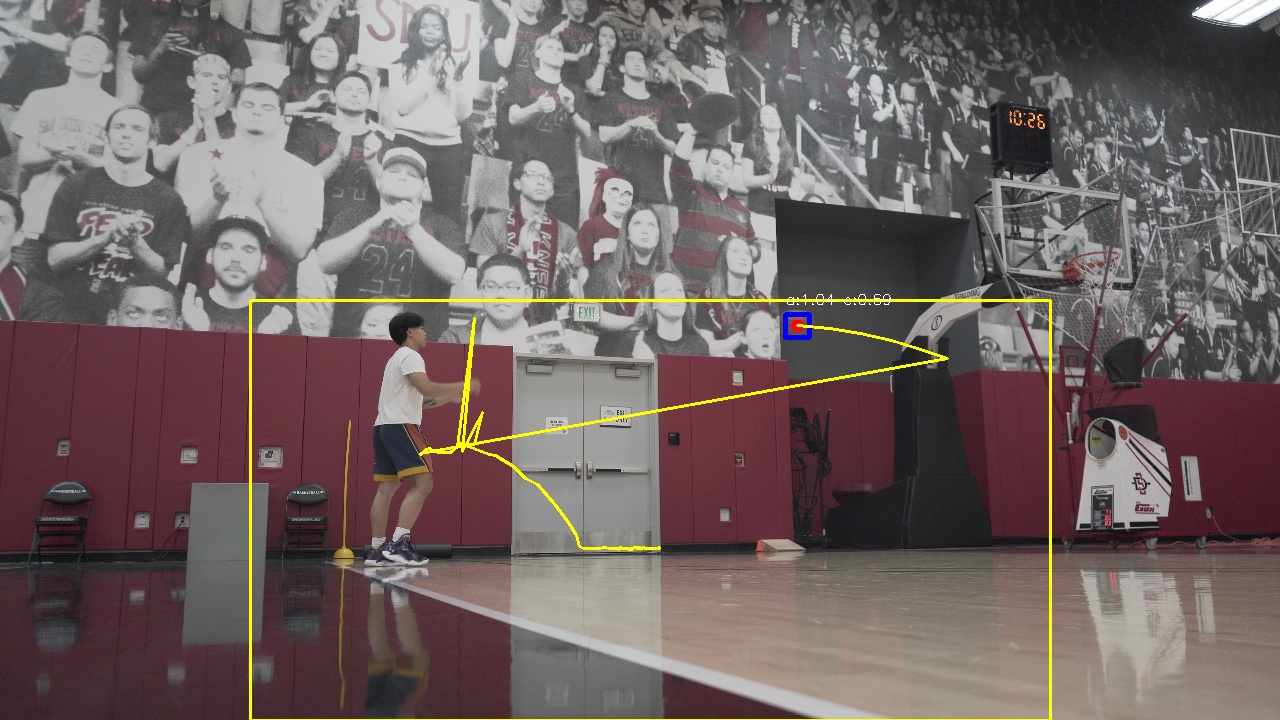
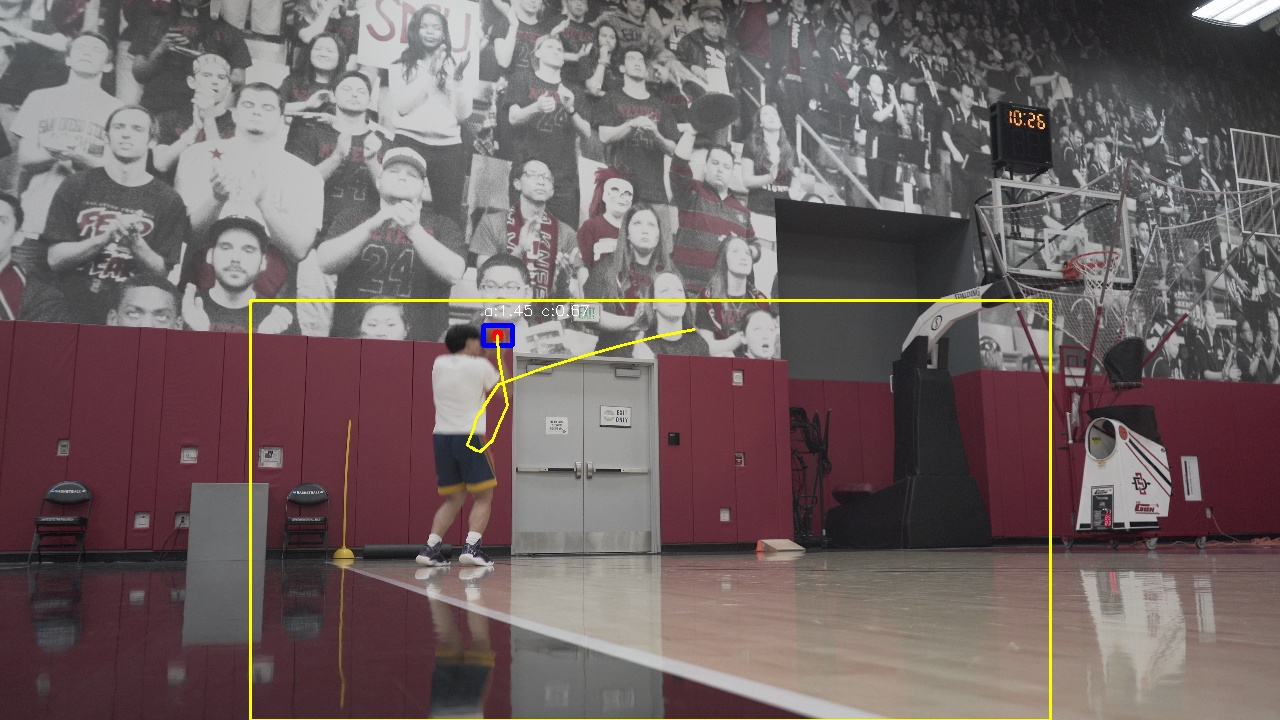
Updating ReadMe and ROADMAP

diff --git a/src/main.py b/src/main.py
@@ -76,6 +76,14 @@ def playVideoFrameFile():
 
     # Track the ball_path
     ball_path = []
+
+    # track jump distance between tracked balls
+    MAX_JUMP_DISTANCE = 120
+
+    # Track the missed consecutive frames
+    missed_frames = 0
+    MAX_MISSED_FRAMES = 3
+
     # 4. Repeatedly read the next frame
     while True:
         ret, frame = cap.read()
@@ -192,11 +200,15 @@ def playVideoFrameFile():
                 last_x, last_y = ball_path[-1]
                 distance = math.hypot(center_x - last_x, center_y - last_y)
 
+                if distance > MAX_JUMP_DISTANCE:
+                    continue
+
                 if best_score is None or distance < best_score:
                     best_score = distance
                     best_candidate = candidate
 
         if best_candidate:
+            missed_frames = 0
             # Unpack best_candidate and use best_candidates values
             full_x, full_y, w, h, center_x, center_y, aspect_ratio, circularity = best_candidate
 
@@ -217,6 +229,11 @@ def playVideoFrameFile():
                 (255, 255, 255),
                 1
             )
+        else:
+            missed_frames += 1
+
+        if missed_frames > MAX_MISSED_FRAMES:
+            ball_path = []
 
         # Draw the trail
         for i in range(1, len(ball_path)):

diff --git a/LEARNING_LOG.md b/LEARNING_LOG.md
@@ -907,9 +907,11 @@ When multiple basketballs appear in the frame, the hardest problem is deciding w
 A useful strategy is:
 
 ## Initialization
+
 Choose the ball candidate that is closest to the player region (or hands/body area).
 
 ## Tracking
+
 After the correct ball is initialized, switch to ball-centered tracking using:
 
 - previous center
@@ -917,3 +919,30 @@ After the correct ball is initialized, switch to ball-centered tracking using:
 - dynamic ROI
 
 This avoids locking onto a stationary ball on the floor while still allowing the tracked ball to travel away from the player after release.
+
+# Lesson 46 — Nearest Neighbor Needs a Distance Gate
+
+Nearest-neighbor tracking alone is not enough.
+
+Even if a candidate is the closest, it may still be too far away to be the same object.
+
+Solution:
+
+- compute distance to previous center
+- reject candidates beyond a maximum threshold
+
+This prevents identity switches and unrealistic jumps in tracking.
+
+# Lesson 47 — A Tracker Needs a “Lost Track” Rule
+
+Even with nearest-neighbor selection and a jump-distance threshold, tracking can still fail temporarily.
+
+If the tracker cannot find a valid candidate for several frames, old path history should not continue forever.
+
+A simple solution is to track missed frames:
+
+- if a valid candidate is found → reset missed count
+- if no valid candidate is found → increment missed count
+- if missed count gets too high → reset the current path
+
+This helps separate one valid track from stale history.

diff --git a/ROADMAP.md b/ROADMAP.md
@@ -38,11 +38,11 @@ Detect the basketball reliably in each frame
 
 ## 🔧 Tasks
 
-- [ ] Tune HSV range for basketball color
-- [ ] Visualize mask, contours, and debug overlays
-- [ ] Filter contours by area
-- [ ] Add **static ROI** to reduce search space
-- [ ] Improve mask quality (reduce fragmentation)
+- [x] Tune HSV range for basketball color
+- [x] Visualize mask, contours, and debug overlays
+- [x] Filter contours by area
+- [x] Add **static ROI** to reduce search space
+- [x] Improve mask quality (reduce fragmentation)
 
 ## ✅ Milestone
 

diff --git a/README.md b/README.md
@@ -1,7 +1,6 @@
 # rookieTracker
 
-# Everytime I open project
-
+# How to Run this Project 
 cd shottracker
 source venv/bin/activate
 python src/main.py
